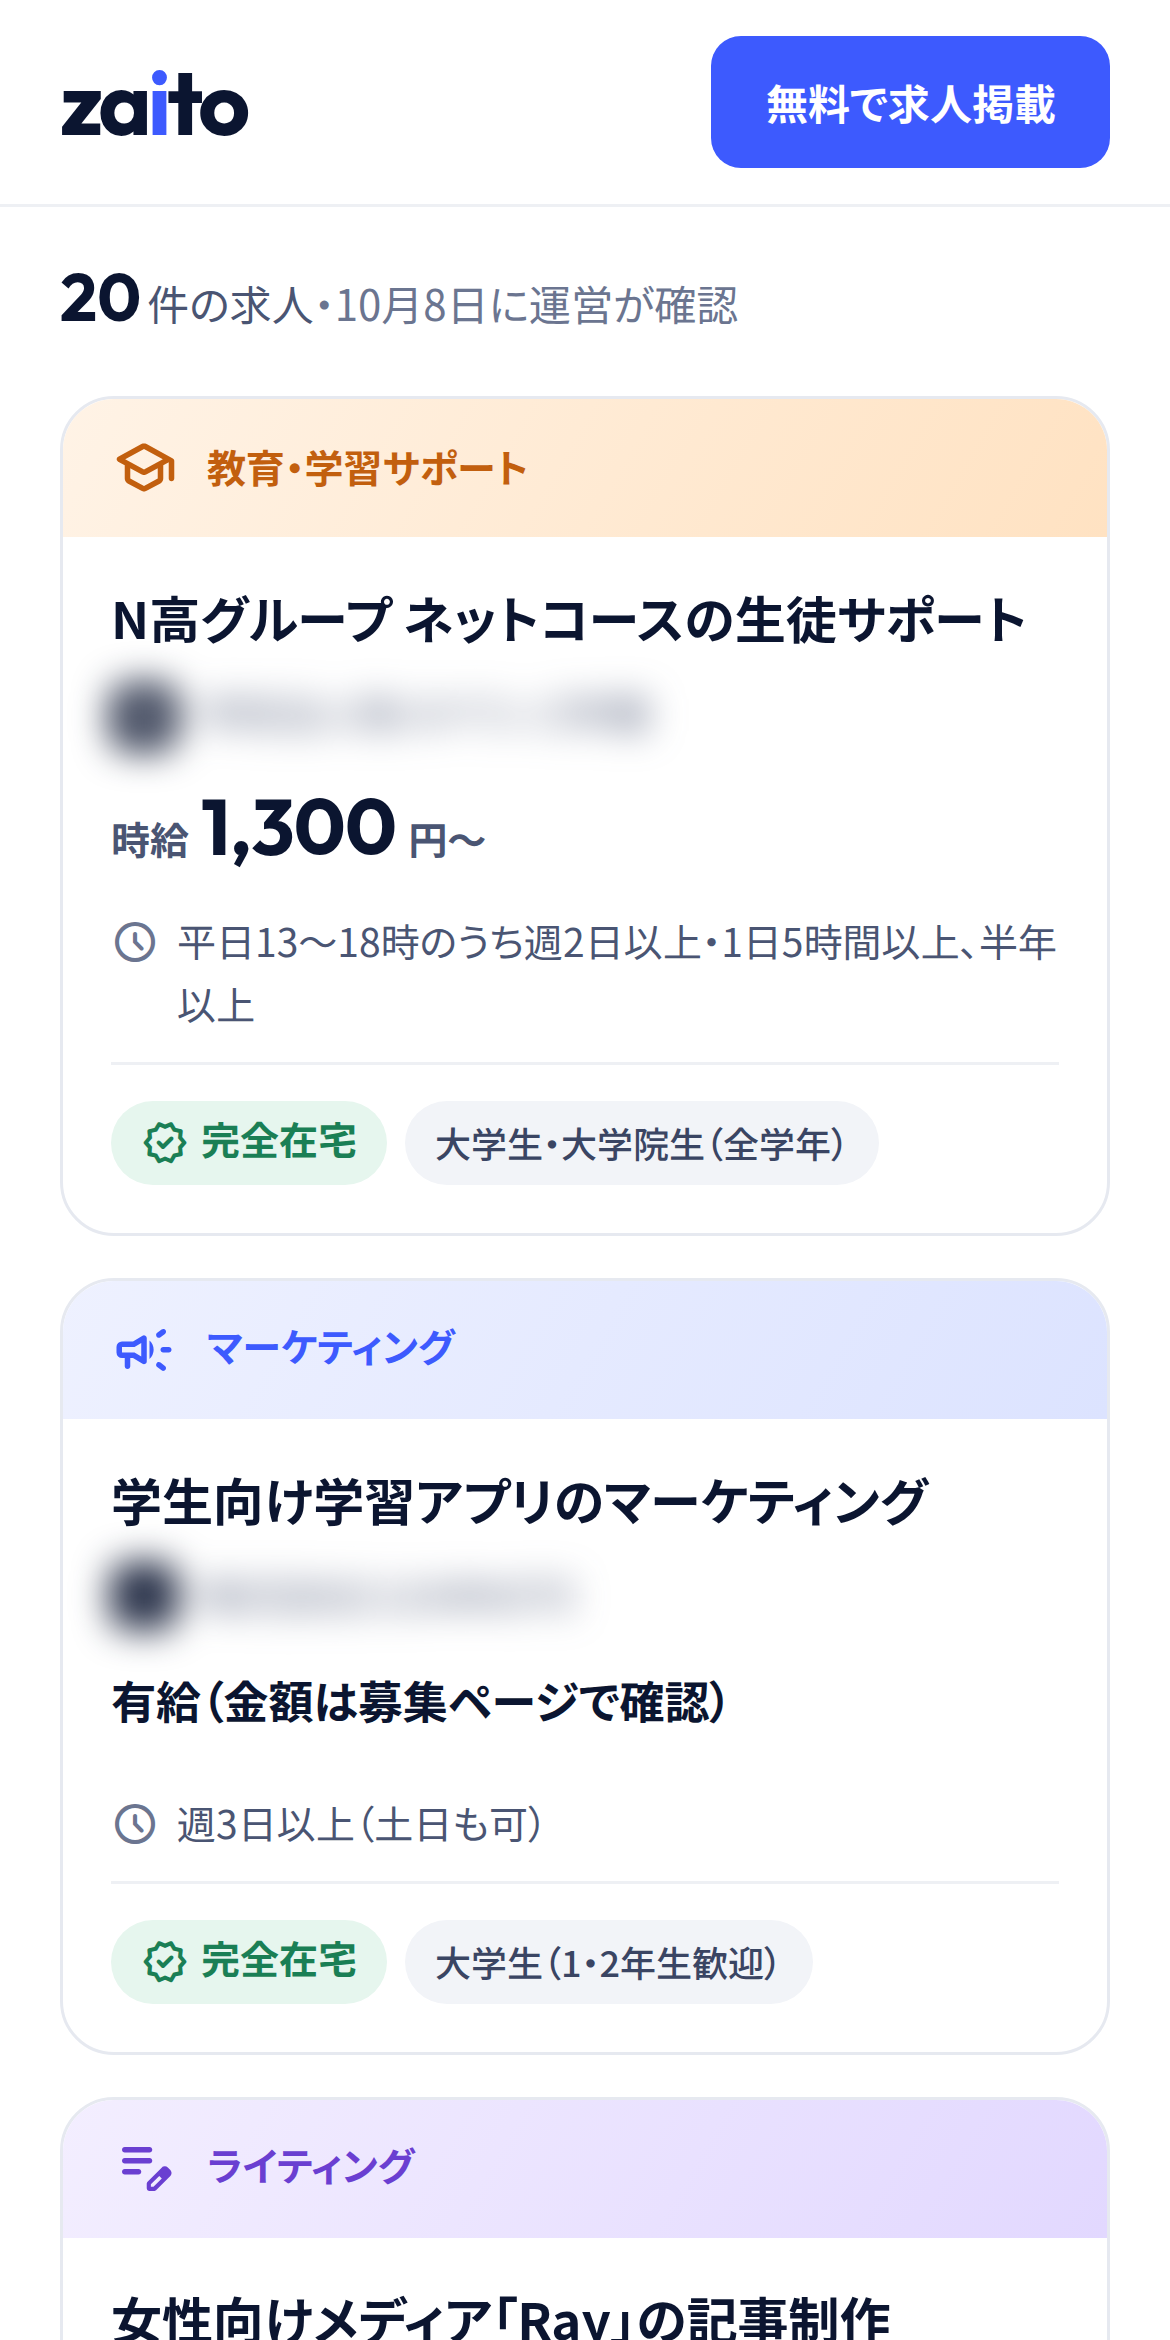
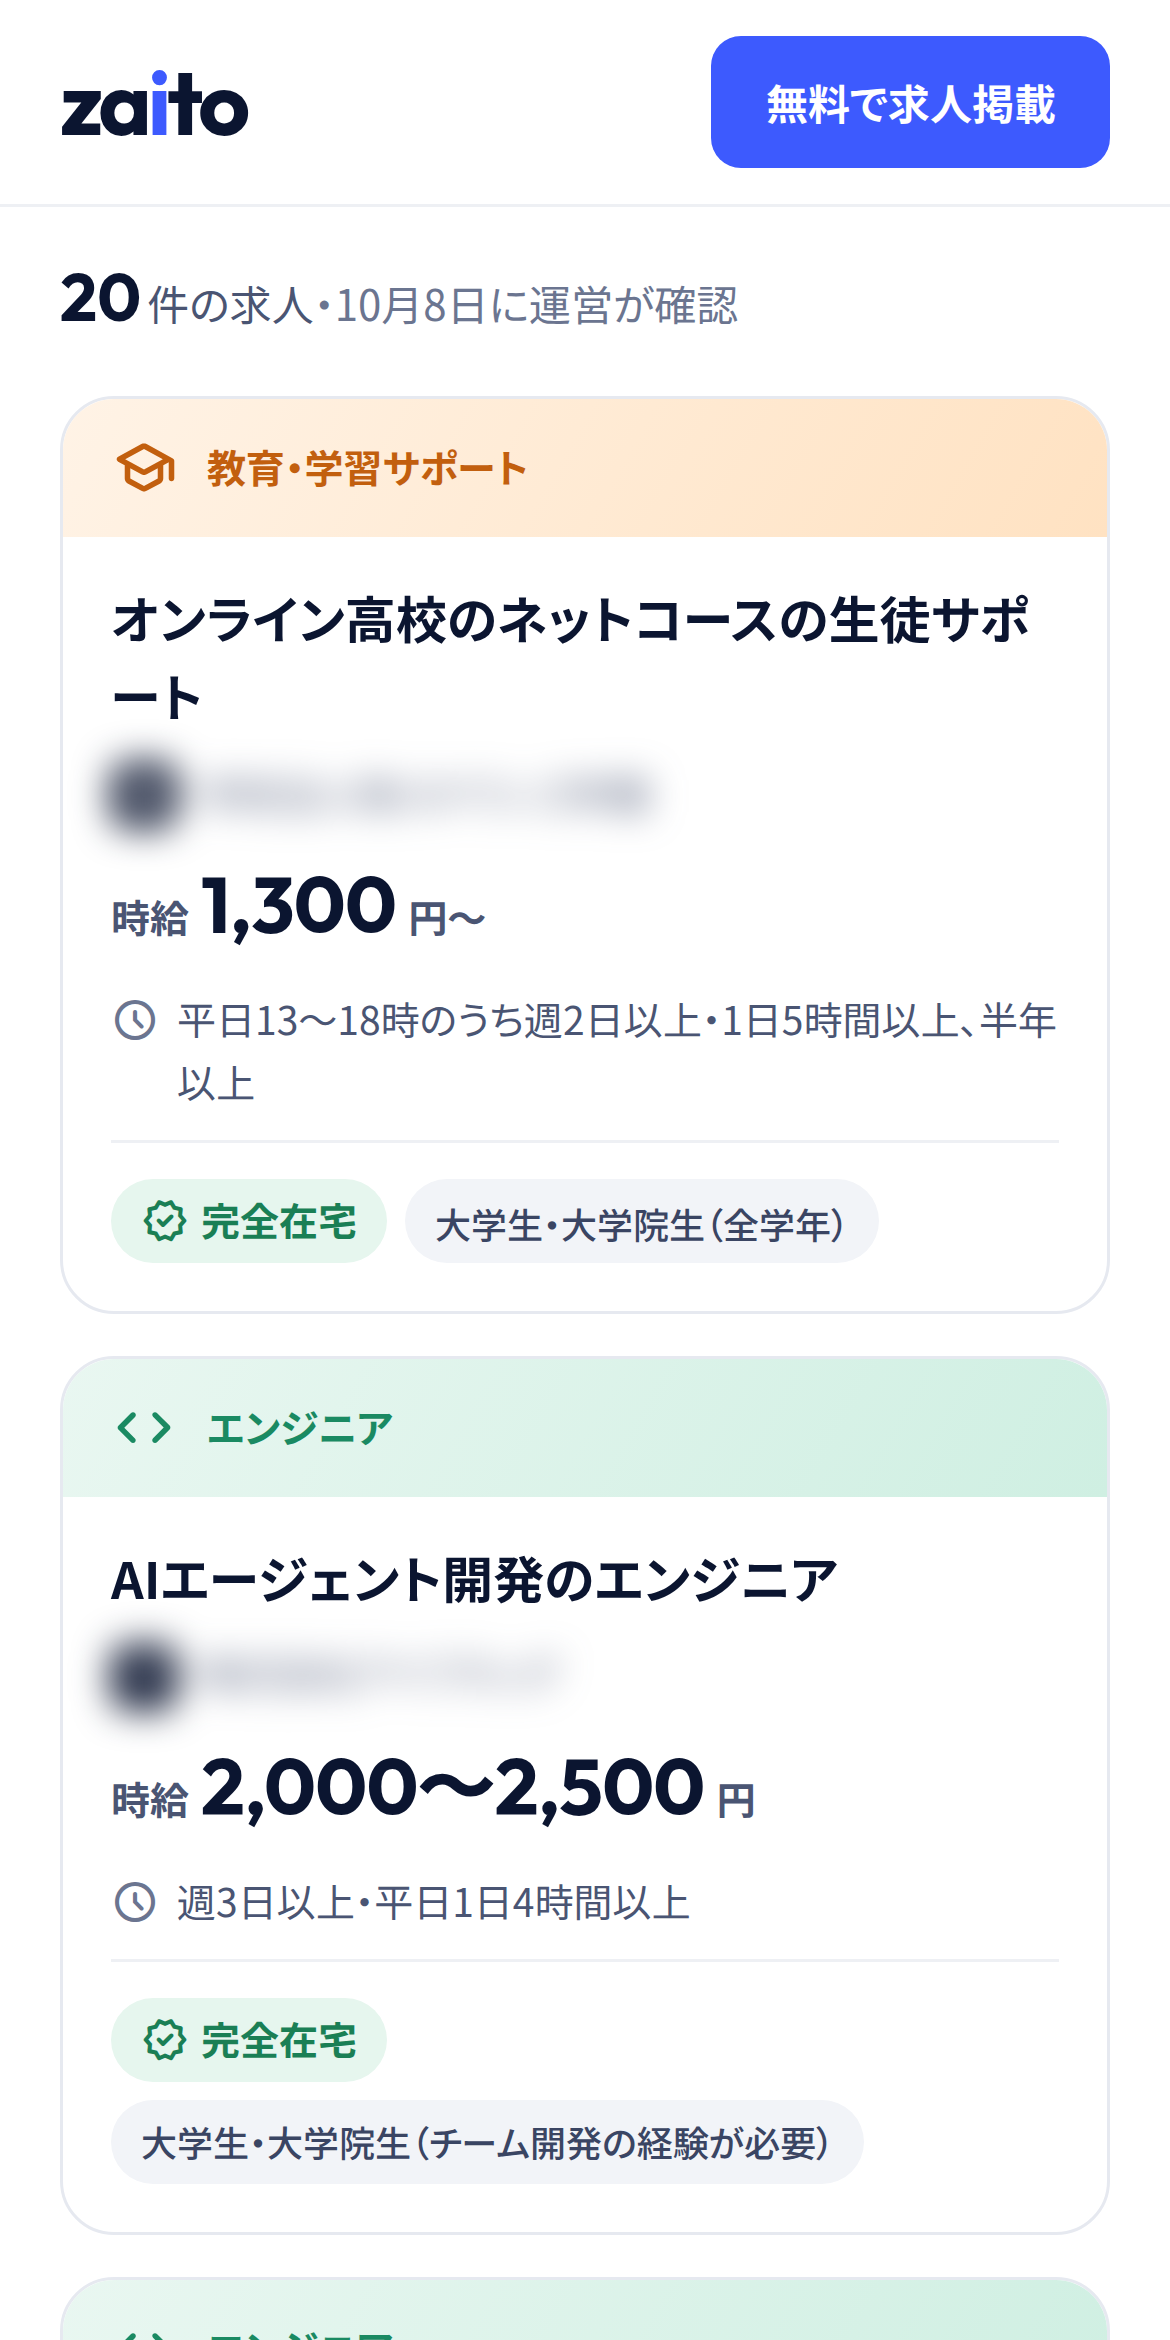
Ads: show only jobs paying 1,300 yen/h or more, drop caveat jobs, hide brand names
Claude-Session: https://claude.ai/code/session_01Nc8VBXCZiKQdU3ws5s6smf

Changed region(s): [[0.0615, 0.2496, 0.9538, 1.0], [0.6154, 0.3744, 0.8923, 0.4679], [0.5538, 0.2496, 0.8923, 0.2808]]

diff --git a/marketing/ads/make_ads_pivot.js b/marketing/ads/make_ads_pivot.js
@@ -4,11 +4,11 @@ const ads = [
   { id:'A1', tag:'主婦・子育て中の方へ', h:'「在宅OK」なのに\n出社あり、は\n[もうやめよう。]', sub:'出社なしの求人だけを集めました。\n子育て中・ブランクOKの求人も。',
     jobs:[['カスタマーサポート','時給','1,300','円','電話なし・経験不問'],['Webマーケの補助','','','','子育て中・ブランク歓迎'],['経理サポート','時給','1,300〜1,500','円','週3〜4日・扶養内OK']] },
   { id:'A2', tag:'主婦・子育て中の方へ', h:'[週3日]・1日数時間から。\n出社なしの在宅求人', sub:'事務、サポート、SNS運用など。\n出社がないことを運営が確認済み。',
-    jobs:[['オンライン秘書','時給','1,500','円','平日週3日・1日2〜3時間'],['経理サポート','時給','1,300〜1,500','円','週3〜4日・扶養内OK'],['AI事務アシスタント','時給','1,300','円〜','週3日・1日4時間〜']] },
+    jobs:[['オンライン秘書','時給','1,500','円','平日週3日・1日2〜3時間'],['経理サポート','時給','1,300〜1,500','円','週3〜4日・扶養内OK'],['カスタマーサポート','時給','1,300','円','電話なし・経験不問']] },
   { id:'B1', tag:'事務経験のある方へ', h:'事務の経験を、\n[出社なし]で。', sub:'経理、営業事務、オンライン秘書。\n「出社なし」を確認した求人だけ。',
     jobs:[['オンライン秘書','時給','1,500','円','秘書・事務の経験を活かす'],['経理サポート','時給','1,300〜1,500','円','経理経験3年以上'],['生産者サポート（EC）','時給','1,400〜1,600','円','経験不問']] },
   { id:'B2', tag:'通勤に疲れた方へ', h:'[通勤ゼロ]で働く。\n在宅の事務求人', sub:'「リモート可」ではなく「出社なし」。\n応募は各社の募集ページから。',
-    jobs:[['リーガルアシスタント','時給','3,000','円程度','不動産契約書の経験'],['カスタマーサポート','時給','1,300','円','電話なし・経験不問'],['ふるさと納税サイト運営','時給','1,100','円〜','平日9〜16時']] },
+    jobs:[['リーガルアシスタント','時給','3,000','円程度','不動産契約書の経験'],['カスタマーサポート','時給','1,300','円','電話なし・経験不問'],['生産者サポート（EC）','時給','1,400〜1,600','円','経験不問']] },
   { id:'C1', tag:'大学生・院生へ', h:'地方にいても、\n東京の企業で\n[在宅インターン]。', sub:'学生OKで、出社なしの求人を\n運営が1件ずつ確認して掲載。',
     jobs:[['高校生のオンライン学習サポート','時給','1,300','円〜','週2日〜'],['AIエンジニア','時給','1,500〜2,500','円','週12時間〜'],['AI・広告運用のマーケ','','','','週5時間〜']] },
   { id:'C2', tag:'大学生・院生へ', h:'[通学時間]を、\nバイト時間に。', sub:'SNS運用、マーケ、編集、エンジニア。\n自宅から働ける学生向けの求人。',

diff --git a/marketing/ads/make_ads.js b/marketing/ads/make_ads.js
@@ -4,11 +4,11 @@ const ads = [
   { id:'A1', tag:'主婦・子育て中の方へ', h:'「在宅OK」なのに\n出社あり、は\nもうやめよう。', sub:'出社なしの求人だけを集めました。\n子育て中・ブランクOKの求人も。',
     jobs:[['カスタマーサポート','時給','1,300','円','電話なし・経験不問'],['Webマーケの補助','','','','子育て中・ブランク歓迎'],['経理サポート','時給','1,300〜1,500','円','週3〜4日・扶養内OK']] },
   { id:'A2', tag:'主婦・子育て中の方へ', h:'週3日・1日数時間から。\n出社なしの在宅求人', sub:'事務、サポート、SNS運用など。\n出社がないことを運営が確認済み。',
-    jobs:[['オンライン秘書','時給','1,500','円','平日週3日・1日2〜3時間'],['経理サポート','時給','1,300〜1,500','円','週3〜4日・扶養内OK'],['AI事務アシスタント','時給','1,300','円〜','週3日・1日4時間〜']] },
+    jobs:[['オンライン秘書','時給','1,500','円','平日週3日・1日2〜3時間'],['経理サポート','時給','1,300〜1,500','円','週3〜4日・扶養内OK'],['カスタマーサポート','時給','1,300','円','電話なし・経験不問']] },
   { id:'B1', tag:'事務経験のある方へ', h:'事務の経験を、\n出社なしで。', sub:'経理、営業事務、オンライン秘書。\n「出社なし」を確認した求人だけ。',
     jobs:[['オンライン秘書','時給','1,500','円','秘書・事務の経験を活かす'],['経理サポート','時給','1,300〜1,500','円','経理経験3年以上'],['生産者サポート（EC）','時給','1,400〜1,600','円','経験不問']] },
   { id:'B2', tag:'通勤に疲れた方へ', h:'通勤ゼロで働く。\n在宅の事務求人', sub:'「リモート可」ではなく「出社なし」。\n応募は各社の募集ページから。',
-    jobs:[['リーガルアシスタント','時給','3,000','円程度','不動産契約書の経験'],['カスタマーサポート','時給','1,300','円','電話なし・経験不問'],['ふるさと納税サイト運営','時給','1,100','円〜','平日9〜16時']] },
+    jobs:[['リーガルアシスタント','時給','3,000','円程度','不動産契約書の経験'],['カスタマーサポート','時給','1,300','円','電話なし・経験不問'],['生産者サポート（EC）','時給','1,400〜1,600','円','経験不問']] },
   { id:'C1', tag:'大学生・院生へ', h:'地方にいても、\n東京の企業で\n在宅インターン。', sub:'学生OKで、出社なしの求人を\n運営が1件ずつ確認して掲載。',
     jobs:[['高校生のオンライン学習サポート','時給','1,300','円〜','週2日〜'],['AIエンジニア','時給','1,500〜2,500','円','週12時間〜'],['AI・広告運用のマーケ','','','','週5時間〜']] },
   { id:'C2', tag:'大学生・院生へ', h:'通学時間を、\nバイト時間に。', sub:'SNS運用、マーケ、編集、エンジニア。\n自宅から働ける学生向けの求人。',

diff --git a/marketing/ads/phone/src/capture_screens.js b/marketing/ads/phone/src/capture_screens.js
@@ -1,13 +1,25 @@
 const { chromium } = require('playwright'); const cp = require('child_process');
 (async () => {
   const b = await chromium.launch({ executablePath: '/opt/pw-browsers/chromium-1194/chrome-linux/chrome' });
-  for (const [name, path] of [['A','/zaitaku/shakaijin/'],['B','/zaitaku/jimu/'],['C','/zaitaku/gakusei/']]) {
+  for (const [name, path] of [['A','/zaitaku/mikeiken/'],['B','/zaitaku/jimu/'],['C','/zaitaku/gakusei/']]) {
     const ctx = await b.newContext({ viewport: { width: 390, height: 780 }, isMobile: true, hasTouch: true, deviceScaleFactor: 3 });
     const p = await ctx.newPage();
     await p.route(/fonts\.(googleapis|gstatic)\.com/, async r => { const u=r.request().url(); const body=cp.execFileSync('curl',['-sS','-A',r.request().headers()['user-agent'],u]); await r.fulfill({status:200,body,headers:{'content-type':u.includes('googleapis')?'text/css':'font/woff2','access-control-allow-origin':'*'}}); });
     await p.route(/googletagmanager/, r => r.abort());
     await p.goto('http://127.0.0.1:8767' + path, { waitUntil: 'networkidle' }); await p.evaluate(() => document.fonts.ready);
     await p.addStyleTag({ content: '.hd{background:#fff!important;backdrop-filter:none!important} .card .co{filter:blur(6px)}' });
+    // 広告では時給1,300円以上の求人だけを見せる（報酬が書かれていない求人・時給の低い求人は画面から外す）。
+    await p.evaluate(() => {
+      document.querySelectorAll('#zcards .card').forEach(card => {
+        const b = card.querySelector('.pay b'); const u = card.querySelector('.pay .u');
+        const min = b && u && u.textContent.includes('時給') ? parseInt(b.textContent.replace(/,/g, ''), 10) : 0;
+        if (!(min >= 1300)) card.remove();
+      });
+      // 求人名に入っているサービス名・ブランド名も広告では見せない。
+      document.querySelectorAll('#zcards .card h2').forEach(h => {
+        h.textContent = h.textContent.replace(/[^「」]*「[^」]*」の?/g, '').replace(/N高グループ\s*/g, 'オンライン高校の').replace(/^\s+/, '');
+      });
+    });
     await p.evaluate(() => { const c = document.querySelector('.count'); window.scrollTo(0, c.getBoundingClientRect().top + scrollY - 80); });
     await p.waitForTimeout(400);
     await p.screenshot({ path: `adgen/screens/${name}.png` });

diff --git a/marketing/ads/phone/src/make_phone_ads.js b/marketing/ads/phone/src/make_phone_ads.js
@@ -3,8 +3,8 @@ const OUT = '/home/user/test/marketing/ads/phone';
 const SHOTS = __dirname + '/screens';
 // 見出しは行ごと。[ ] で囲んだ語は白い箱に入れて特大にする。
 const ads = [
-  { id:'A', tag:'子育て中・ブランクOK', lines:['[出社なし]の','在宅ワーク、','探してみませんか？'], badges:['週3日以下OK','時給1,000円〜'] },
-  { id:'B', tag:'事務経験のある方へ', lines:['[事務経験]を','活かして','[在宅]で働く。'], badges:['経理・秘書・営業事務','時給1,000〜3,000円'] },
+  { id:'A', tag:'子育て中・ブランクOK', lines:['[出社なし]の','在宅ワーク、','探してみませんか？'], badges:['未経験・ブランクOK','時給1,300円〜'] },
+  { id:'B', tag:'事務経験のある方へ', lines:['[事務経験]を','活かして','[在宅]で働く。'], badges:['経理・秘書・営業事務','時給1,300〜3,000円'] },
   { id:'C', tag:'大学生・院生へ', lines:['[在宅]でできる','インターン、','探してみませんか？'], badges:['学生OK','時給1,300円〜'] },
 ];
 const esc = s => s.replace(/&/g,'&amp;').replace(/</g,'&lt;');

diff --git a/marketing/ads/README.md b/marketing/ads/README.md
@@ -38,8 +38,12 @@ C（学生）
 
 ## phone/：スマホ画面の版（2026-10-08）
 zaitoの実際の求人一覧（条件別ページ）をスマホの枠に入れ、右に短い見出しを置いた版。会社名はぼかしている。
-- A：主婦・子育て中（/zaitaku/shakaijin/ の画面）「出社なしの在宅ワーク、探してみませんか？」
+- A：主婦・子育て中（/zaitaku/mikeiken/ の画面）「出社なしの在宅ワーク、探してみませんか？」
 - B：事務経験のある方（/zaitaku/jimu/）「事務経験を活かして在宅で働く。」
 - C：大学生・院生（/zaitaku/gakusei/）「在宅でできるインターン、探してみませんか？」
 - `_square` は1080×1080、`_portrait` は1080×1350（Instagramのフィードで大きく表示される縦長）
 - 画面の求人が変わったら `src/capture_screens.js` で撮り直し、`src/make_phone_ads.js` で作り直す。バッジの時給は画面の求人と食い違わないようにする
+
+### 広告に載せる求人のルール（2026-10-08）
+- 時給1,300円未満の求人、報酬が書かれていない求人、「条件あり」（一部出社など）の求人は広告に出さない
+- 会社名・サービス名（求人名に入っているものも）は出さない
